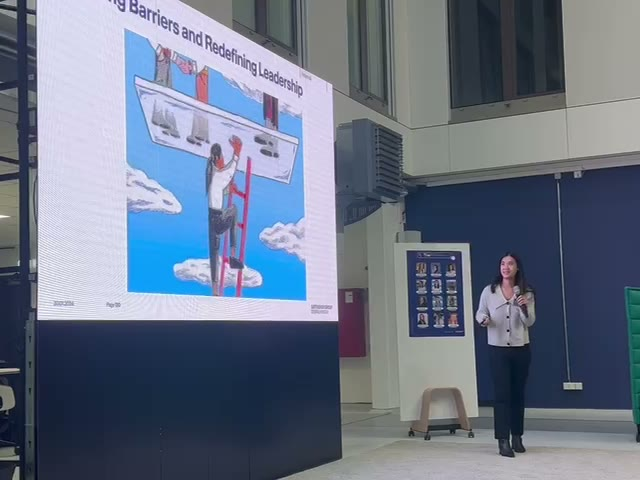
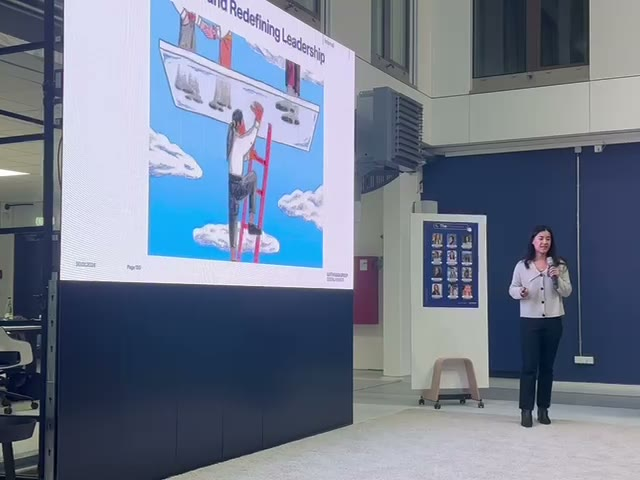
Add the Agentic AI Hackathon win, swap two photos
The site had no awards anywhere. A Recognition strip after the work
section carries the Lufthansa Group Digital Hangar Agentic AI Hackathon
win with IBM, Microsoft and Cognigy, May 2025, plus a credentials chip.

Not a fifth project card: the work section promises evals and failures,
and RetentionAI has neither a live link nor an eval, so it would break
the standard the four cards set.

Female Digital Pioneer photos swapped for the ones Shirley picked: a
different frame from the talk, and the cohort graduation photo in place
of the Building Connections still.

diff --git a/index.html b/index.html
@@ -53,6 +53,7 @@
         <li class="chip">7 years building models and pipelines</li>
         <li class="chip">Instructor, Constructor Academy</li>
         <li class="chip">EN · DE · 中文</li>
+        <li class="chip">Winner, Agentic AI Hackathon 2025</li>
         <li class="chip">Sponsorship lead, WiDS Zurich</li>
       </ul>
     </div>
@@ -152,6 +153,21 @@
 
 
 <!-- =========================================================
+     RECOGNITION
+     ========================================================= -->
+<section class="wrap">
+  <div class="strip grad-blue recognition">
+    <div>
+      <p class="eyebrow">Recognition</p>
+      <h3>Winner, Agentic AI Hackathon</h3>
+      <p>Lufthansa Group Digital Hangar, with IBM, Microsoft and Cognigy, May 2025. Our team built RetentionAI: one agent finds the moments where personal attention actually changes the outcome, another shapes the gesture and tone to fit that customer. Picked from 10 teams and 100 participants.</p>
+    </div>
+    <img class="strip-image" src="assets/hackathon-win.jpg" alt="Shirley He holding the winner's award with her team at the Lufthansa Group Digital Hangar Agentic AI Hackathon">
+  </div>
+</section>
+
+
+<!-- =========================================================
      HOW I WORK
      ========================================================= -->
 <section class="wrap section">
@@ -234,7 +250,7 @@
       </div>
       <div class="event-shots">
         <img src="assets/speaking/breaking-barriers.jpg" alt="Shirley He presenting a slide of a woman climbing a red ladder through a glass ceiling">
-        <img src="assets/speaking/building-connections.jpg" alt="Shirley He presenting a slide titled Building Connections and Belonging">
+        <img src="assets/speaking/female-digital-pioneer-graduation.jpg" alt="Shirley He with the Female Digital Pioneer cohort at graduation">
       </div>
     </article>
 

diff --git a/css/style.css b/css/style.css
@@ -360,6 +360,16 @@ p { margin: 0 0 1em; }
 .strip > div { flex: 1 1 420px; }
 .strip h3 { font-size: 1.6rem; }
 .strip p { margin: 6px 0 0; color: var(--muted); }
+.strip-image {
+  flex: 0 1 380px;
+  width: 380px;
+  max-width: 100%;
+  aspect-ratio: 3 / 2;
+  object-fit: cover;
+  border-radius: var(--radius-md);
+  border: 1.5px solid var(--ink);
+  display: block;
+}
 
 
 /* ---------- 13. CONTACT ---------- */
